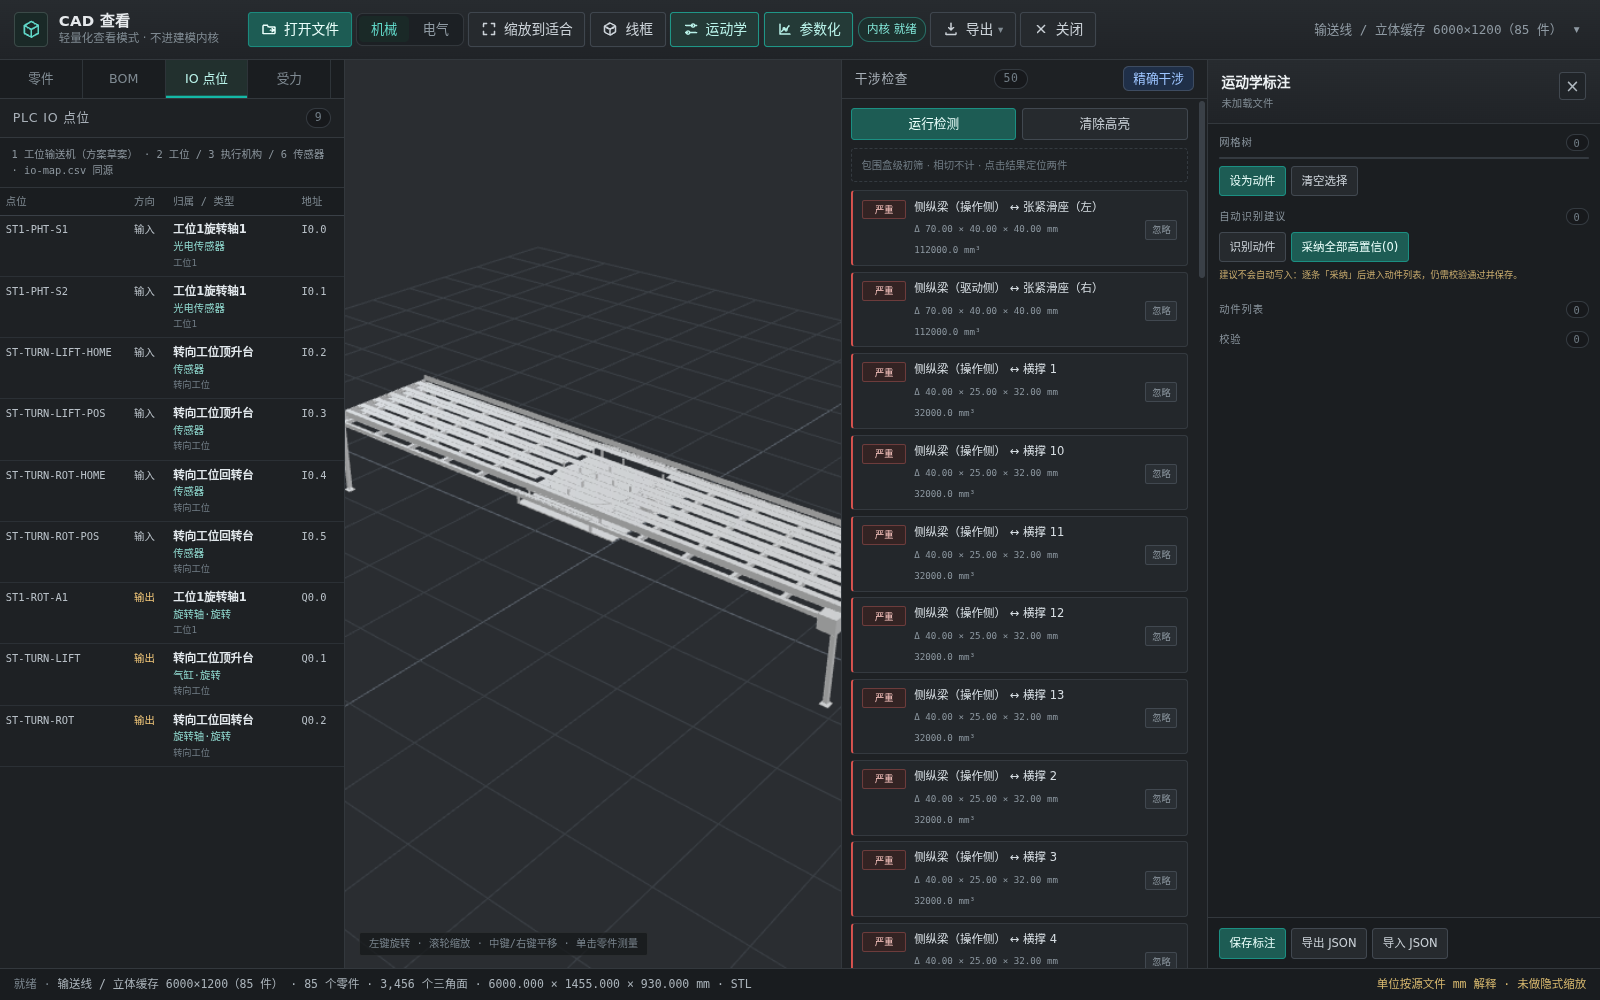
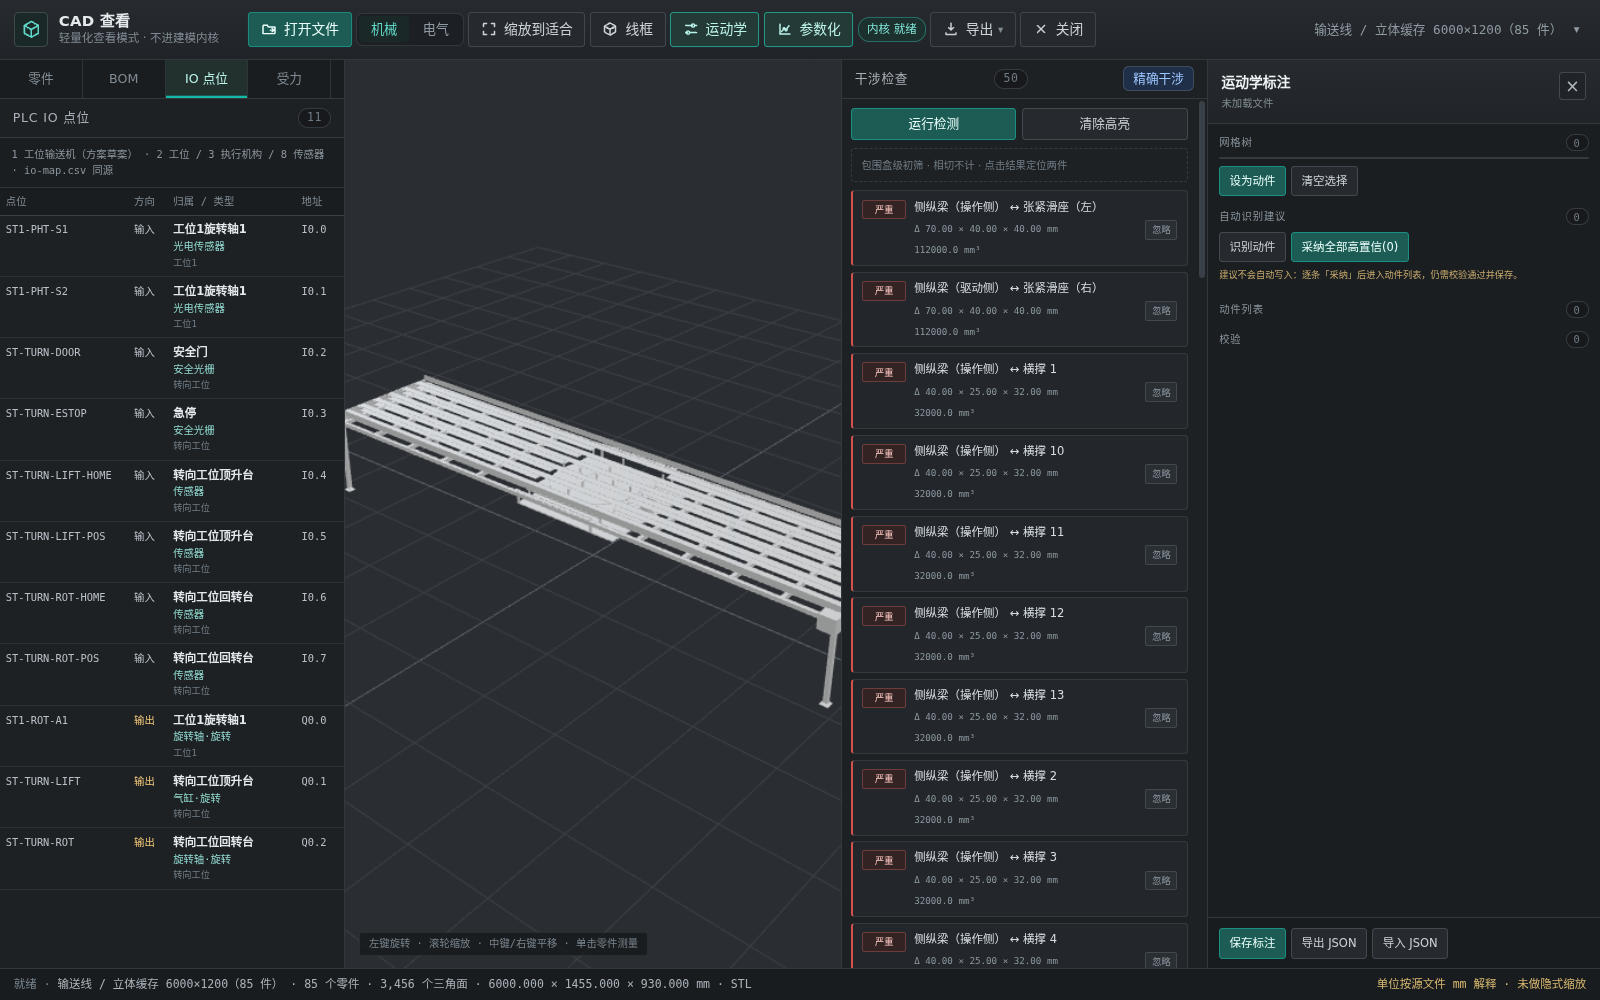
feat(machine): 带转向工位的机型补最小安全回路（急停 + 安全门），PLC 全流程闭环
E2E 一直 blocked=2：PLC 预检要求 ESTOP / SAFETY_DOOR，缺了就拒绝生成（这是对的）。
按老王确认「补」执行，范围限定为**带转向工位的机型**（普通输送线不动）：

- synth.ts：转向工位追加两个安全传感器 ST-TURN-ESTOP / ST-TURN-DOOR（part 用「急停」「安全门」，
  PLC 侧 isSafetyRole 按同一套词识别）；安全说明并入现有 assumption，不新增条目
  （trim.ts 的 assumptions >20 会被裁成对象，进而让「应用到工程」判非法）
- store.ts：传感器绑定校验放行安全角色 —— 安全件绑的是安全回路，不属于任何工位/执行机构
  （原先这里直接判非法，机型方案应用不了）

实测：MACHINE_E2E_DONE steps=8 failed=0 blocked=0，STEP_5 zips=1（PLC 11 文件 + ZIP 已落盘）；
测试 2866 / 2864 pass / 2 skip / 0 fail；tsc 0。

diff --git a/desktop/src/machine/synth.ts b/desktop/src/machine/synth.ts
@@ -876,8 +876,22 @@ export function synthMachine(brief: MachineBrief, options: SynthOptions = {}): M
     }
     // 四个信号合成一条 assumption：trim.ts 会把 >20 条的数组裁成 {items,total,truncated}，
     // 一旦 assumptions 超 20 条，方案卡「应用到工程」会因为「必须是字符串数组」被拒
+    // 安全回路：顶升旋转单元要人工干预（上料/清卡件），没有急停与安全门时 PLC 预检会拒签
+    // （ESTOP_UNDEFINED / SAFETY_DOOR_UNDEFINED）。这里只给**带转向工位的机型**补最小安全回路，
+    // 普通输送线不动——安全范围属设计决策，不全局默认。
+    // 这两个点位的 part 用中文角色名，extractSafetyRefs 的 isSafetyRole 会据此识别成 estop/door，
+    // checkActuatorSensors 也会把安全点位排除在执行机构绑定校验之外。
+    const safetySensors = [
+      ['ST-TURN-ESTOP', '急停'],
+      ['ST-TURN-DOOR', '安全门']
+    ] as const;
+    for (const [point, part] of safetySensors) {
+      sensors.push({ point, station: TURNER_STATION_NAME, part });
+      if (!points.includes(point)) points.push(point);
+    }
     assumptions.push(
-      `转向工位四个到位信号：${turnerSensors.map(([point, label, part]) => `${label} ${point}→${part}`).join('、')}。`
+      `转向工位四个到位信号：${turnerSensors.map(([point, label, part]) => `${label} ${point}→${part}`).join('、')}；` +
+        `安全回路：急停 ${safetySensors[0][0]}、安全门 ${safetySensors[1][0]}（最小安全集，非安全等级认证回路，需按现场风险评估确认）。`
     );
     assumptions.push(
       `转向工位：线体中段加顶升旋转单元（升降台板 ${turnerPlan.plateLengthMm}×${turnerPlan.plateWidthMm} + 回转支承 ` +

diff --git a/desktop/src/machine/store.ts b/desktop/src/machine/store.ts
@@ -240,8 +240,12 @@ export function validateMachineDesign(value: unknown): NormalizedMachineDesign {
     actuatorIds.add(actuator.id);
   }
   const stationSet = new Set(config.stations);
+  // 安全回路传感器（急停/安全门/光栅）不属于任何工位或执行机构：它们绑的是安全回路本身。
+  // 这里放行安全角色，否则带安全集的机型方案会在这里被判非法（PLC 侧 extractSafetyRefs 用同一套词识别）。
+  const SAFETY_ROLE_RE = /急停|estop|e-stop|emergency|安全门|光栅|safety.?door|door|light.?curtain/i;
   for (const sensor of config.sensors) {
-    if (!stationSet.has(sensor.part) && !actuatorIds.has(sensor.part)) {
+    const isSafety = SAFETY_ROLE_RE.test(sensor.part);
+    if (!isSafety && !stationSet.has(sensor.part) && !actuatorIds.has(sensor.part)) {
       throw new Error(`传感器「${sensor.point}」引用了未定义工位或执行机构「${sensor.part}」`);
     }
   }
